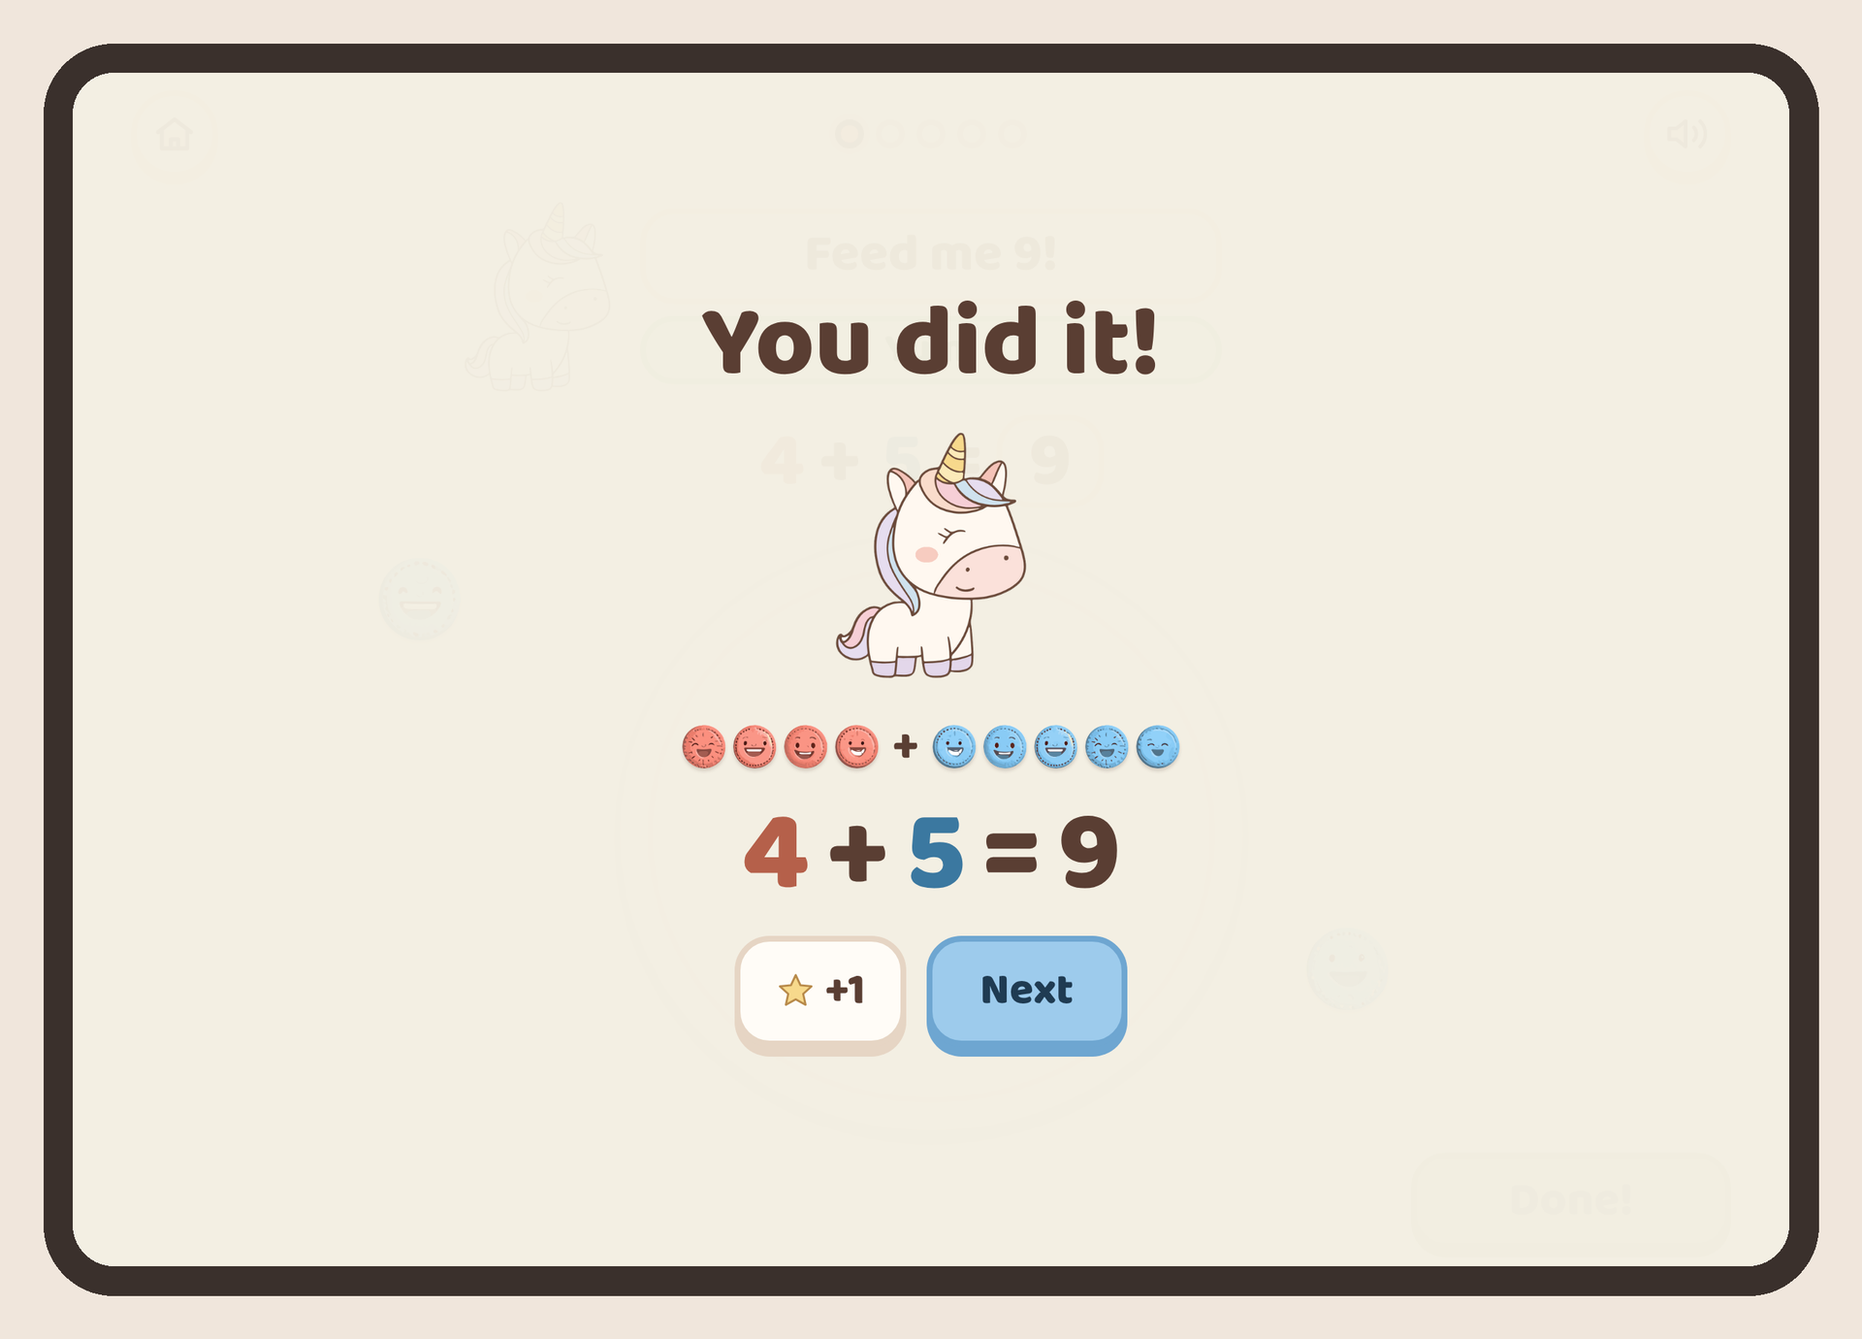
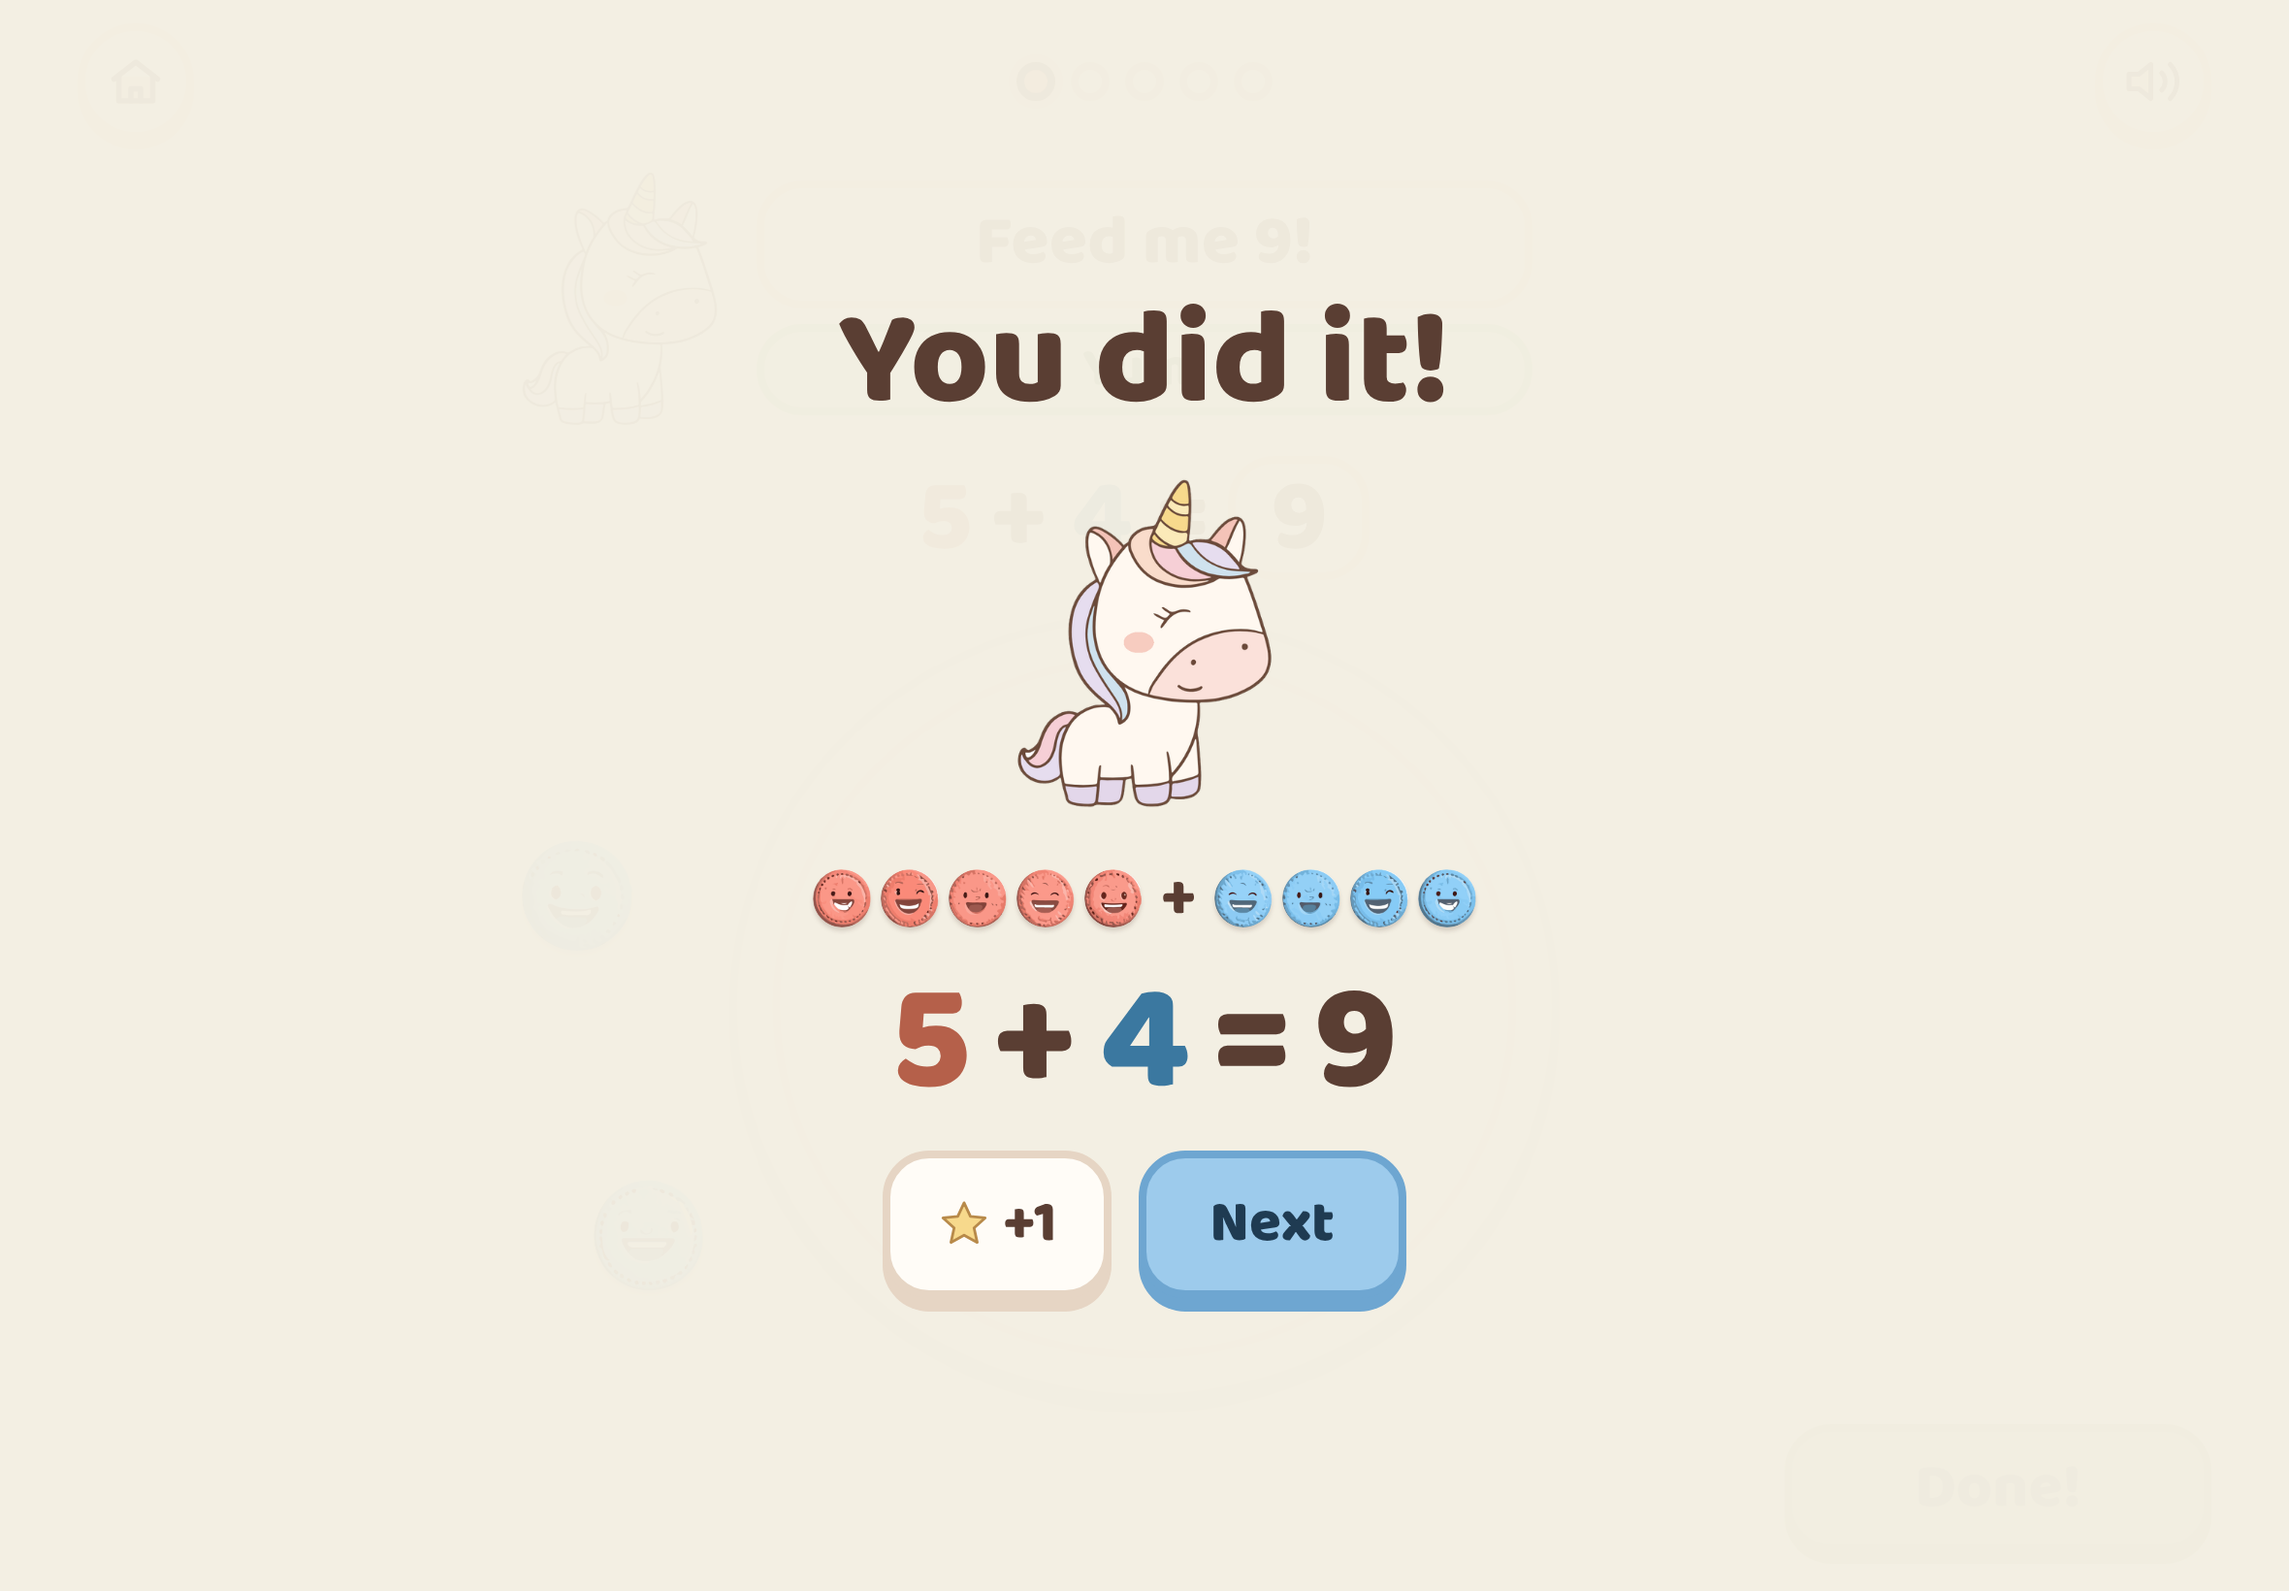
README: new iPad (landscape) and iPhone screenshots incl. Frog Hops and Tower; five games, 7 languages, profiles
Claude-Session: https://claude.ai/code/session_01MLGMh2dSNpCvxY5SBcjVA2

Changed region(s): [[0.0, 0.0312, 1.0, 0.9659], [0.3438, 0.3116, 0.6562, 0.8413], [0.3438, 0.187, 0.6562, 0.2804]]

diff --git a/README.md b/README.md
@@ -1,6 +1,6 @@
 # Momo Math
 
-A gentle addition app for 4–6 year olds. Kids feed cookies to Momo the unicorn, fill an egg carton to make 10, and count snails on a bus. Mistakes aren't failures: Momo just counts with you, out loud.
+A gentle addition app for 4–6 year olds. Kids feed cookies to Momo the unicorn, fill an egg carton to make 10, count snails on a bus, hop a frog along a number line and stack block towers with a tiger. Mistakes aren't failures: the animals just count with you, out loud.
 
 **Try it:** https://math-games-neon.vercel.app (free, no account; add it to your home screen for a full-screen app)
 
@@ -8,16 +8,19 @@ A gentle addition app for 4–6 year olds. Kids feed cookies to Momo the unicorn
 
 ## What's inside
 
-- **Three games**, each teaching a different addition idea
+- **Five games**, each teaching a different addition idea
   - **Feed the Unicorn**: drag blue cookies onto a plate that already has red ones (adding two groups)
   - **Ten Frame**: fill the egg carton, then say how many eggs you added (making 10)
   - **Bus Stop**: some snails were on the bus, more got on; how many now? (counting on)
+  - **Frog Hops**: guess where the frog lands, then watch it hop along the number line (the number line)
+  - **Tower**: stack the blue tower on the red one and read its height on the ruler (addition as length)
+  - **Write It** (still under development): a hedgehog asks for a number and the child writes it with a finger; an on-device reader learns her handwriting
 - **Colour coding everywhere**: red = what was already there, blue = what you add, matching the numbers in the sum
 - **Kind feedback**: a wrong answer triggers counting together, never a buzzer
 - **Rewards**: stars colour in rainbows; finished rainbows become stickers in a sticker book
 - **Buddies**: kids pick one of 25 animal avatars
-- **Voice in 6 languages**: English, Français, 普通话, 廣東話, 日本語, 한국어 (device voices, female or male)
-- **For grown-ups** (behind a simple maths gate): a progress grid of every fact, a "try at home" tip, sums up to 5, 10, 15 or 20
+- **Voice in 7 languages**: English, Français, Español, 普通话, 廣東話, 日本語, 한국어 (device voices, female or male, slower / medium / faster)
+- **For grown-ups** (behind a simple maths gate): a profile for each child, a progress grid of every fact, a "try at home" tip, sums up to 5, 10, 15 or 20
 
 ## iPad
 
@@ -25,23 +28,27 @@ A gentle addition app for 4–6 year olds. Kids feed cookies to Momo the unicorn
 |---|---|---|
 | <img src="docs/screenshots/ipad-03-home.png" width="270" alt="Home"> | <img src="docs/screenshots/ipad-04-feed.png" width="270" alt="Feed the Unicorn"> | <img src="docs/screenshots/ipad-05-bravo.png" width="270" alt="You did it!"> |
 
-| Ten Frame | Bus Stop | Your rainbow |
+| Ten Frame | Bus Stop | Frog Hops |
 |---|---|---|
-| <img src="docs/screenshots/ipad-06-tenframe.png" width="270" alt="Ten Frame"> | <img src="docs/screenshots/ipad-07-bus.png" width="270" alt="Bus Stop"> | <img src="docs/screenshots/ipad-08-rainbow.png" width="270" alt="Your rainbow"> |
+| <img src="docs/screenshots/ipad-06-tenframe.png" width="270" alt="Ten Frame"> | <img src="docs/screenshots/ipad-07-bus.png" width="270" alt="Bus Stop"> | <img src="docs/screenshots/ipad-11-frog.png" width="270" alt="Frog Hops"> |
 
-| Sticker book | Pick your buddy | For grown-ups |
+| Tower | Your rainbow | Sticker book |
 |---|---|---|
-| <img src="docs/screenshots/ipad-09-stickers.png" width="270" alt="Sticker book"> | <img src="docs/screenshots/ipad-02-buddy.png" width="270" alt="Pick your buddy"> | <img src="docs/screenshots/ipad-10-grownups.png" width="270" alt="For grown-ups"> |
+| <img src="docs/screenshots/ipad-12-tower.png" width="270" alt="Tower"> | <img src="docs/screenshots/ipad-08-rainbow.png" width="270" alt="Your rainbow"> | <img src="docs/screenshots/ipad-09-stickers.png" width="270" alt="Sticker book"> |
+
+| What's your name? | Pick your buddy | For grown-ups |
+|---|---|---|
+| <img src="docs/screenshots/ipad-01-name.png" width="270" alt="What's your name?"> | <img src="docs/screenshots/ipad-02-buddy.png" width="270" alt="Pick your buddy"> | <img src="docs/screenshots/ipad-10-grownups.png" width="270" alt="For grown-ups"> |
 
 ## iPhone
 
-| Name | Pick a buddy | Home | Feed the Unicorn | You did it! |
-|---|---|---|---|---|
-| <img src="docs/screenshots/phone-01-name.png" width="150" alt="Name"> | <img src="docs/screenshots/phone-02-buddy.png" width="150" alt="Pick a buddy"> | <img src="docs/screenshots/phone-03-home.png" width="150" alt="Home"> | <img src="docs/screenshots/phone-04-feed.png" width="150" alt="Feed the Unicorn"> | <img src="docs/screenshots/phone-05-bravo.png" width="150" alt="You did it!"> |
+| Home | Feed the Unicorn | You did it! | Ten Frame | Bus Stop | Frog Hops |
+|---|---|---|---|---|---|
+| <img src="docs/screenshots/phone-03-home.png" width="125" alt="Home"> | <img src="docs/screenshots/phone-04-feed.png" width="125" alt="Feed the Unicorn"> | <img src="docs/screenshots/phone-05-bravo.png" width="125" alt="You did it!"> | <img src="docs/screenshots/phone-06-tenframe.png" width="125" alt="Ten Frame"> | <img src="docs/screenshots/phone-07-bus.png" width="125" alt="Bus Stop"> | <img src="docs/screenshots/phone-11-frog.png" width="125" alt="Frog Hops"> |
 
-| Ten Frame | Bus Stop | Your rainbow | Sticker book | For grown-ups |
-|---|---|---|---|---|
-| <img src="docs/screenshots/phone-06-tenframe.png" width="150" alt="Ten Frame"> | <img src="docs/screenshots/phone-07-bus.png" width="150" alt="Bus Stop"> | <img src="docs/screenshots/phone-08-rainbow.png" width="150" alt="Your rainbow"> | <img src="docs/screenshots/phone-09-stickers.png" width="150" alt="Sticker book"> | <img src="docs/screenshots/phone-10-grownups.png" width="150" alt="For grown-ups"> |
+| Tower | Your rainbow | Sticker book | What's your name? | Pick your buddy | For grown-ups |
+|---|---|---|---|---|---|
+| <img src="docs/screenshots/phone-12-tower.png" width="125" alt="Tower"> | <img src="docs/screenshots/phone-08-rainbow.png" width="125" alt="Your rainbow"> | <img src="docs/screenshots/phone-09-stickers.png" width="125" alt="Sticker book"> | <img src="docs/screenshots/phone-01-name.png" width="125" alt="What's your name?"> | <img src="docs/screenshots/phone-02-buddy.png" width="125" alt="Pick your buddy"> | <img src="docs/screenshots/phone-10-grownups.png" width="125" alt="For grown-ups"> |
 
 ## How it's built
 
@@ -51,7 +58,9 @@ A single `index.html` (plain HTML, CSS and JavaScript, no framework, no build st
 |---|---|
 | `index.html` | The whole app |
 | `animals/`, `avatars/`, `stars/`, `cookies/`, `eggs/` | Characters, buddy faces, stars, cookies and eggs |
-| `rainbows.js` | Rainbow stickers |
+| `rainbows.js`, `rainbows-more.js`, `stickers/` | Rainbow stickers and the special animal stickers |
+| `write-test.html`, `digits-model.js` | Write It (in development): the writing pad and the small on-device digit reader |
+| `tools/digits/` | How the digit reader was made (synthetic finger-drawn digits + training) |
 | `fonts/` | Fonts for Chinese, Cantonese, Japanese and Korean (only downloaded when used) |
 | `icons/`, `favicon.ico`, `manifest.webmanifest` | Home-screen and browser icons, app name |
 | `og-image.png` | Preview picture when the link is shared (1200×630) |
